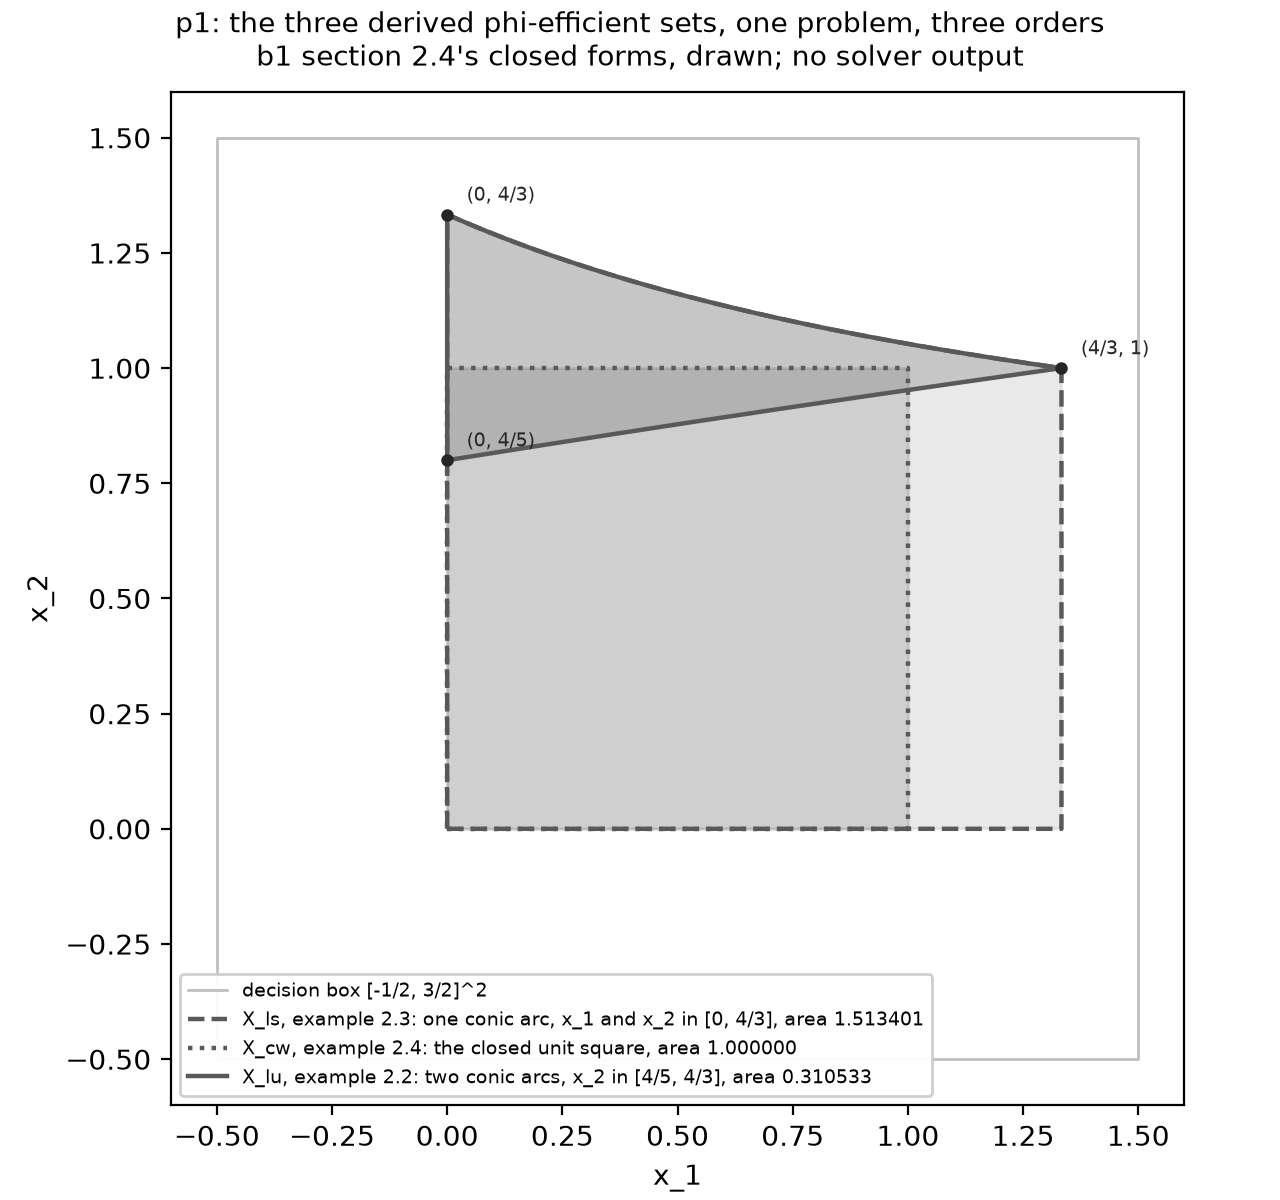
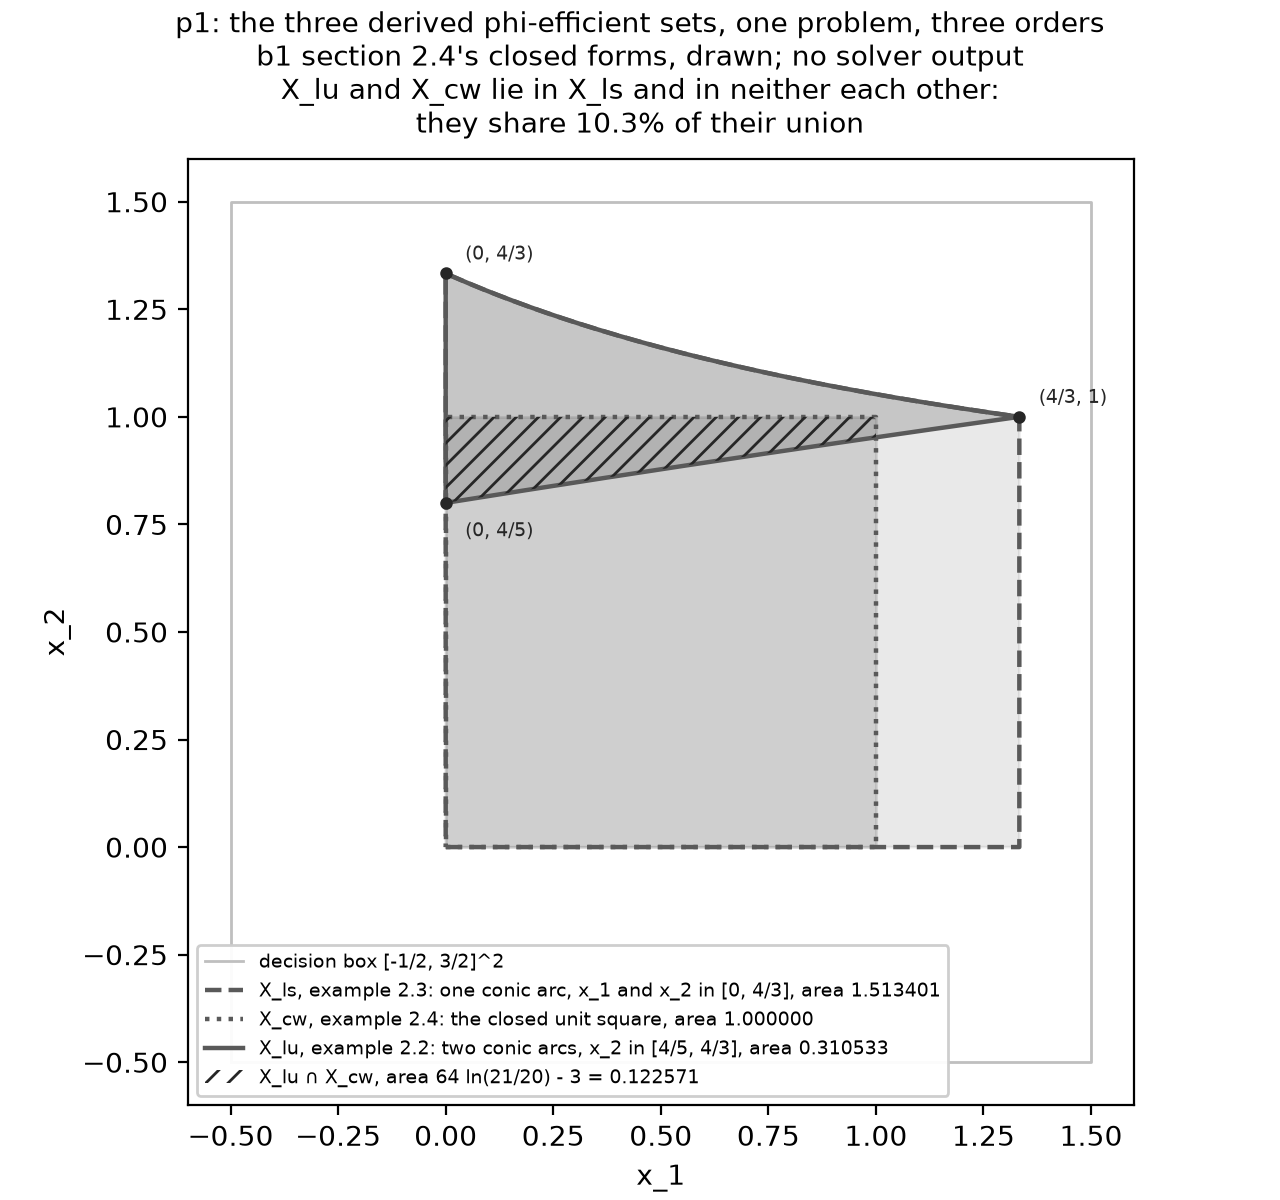
meeting-doc: the overlap of the two non-nested sets, in closed form
the number the document was missing, and it is the one the meeting turns on: how
much of one derived set is the other, for the pair that is nested in neither
direction. checked before it was written, and it holds.

the intersection has a closed form. X_lu is 0 <= x_1 <= min(U, V) with U and V
b1 section 2.4's two conic arcs, U <= V on [4/5, 1] and V <= U on [1, 4/3];
intersecting with X_cw = [0, 1]^2 keeps x_2 in [4/5, 1], where U binds, and caps
x_1 at 1, which binds above x_2 = 20/21. with 20(4 - x_2) - 64 ln(4 - x_2) an
antiderivative of U,

    |X_lu n X_cw| = 64 ln(21/20) - 3 = 0.1225705068...

three routes agree: the antiderivative by hand, adaptive quadrature to 3.0e-15,
and an 8000 x 8000 grid of the box at 0.122571. the same grid returns the areas
0.310533, 1.513317 and 1.000000 against b1's closed forms 0.310533, 1.513401 and
1.000000, and zero cells lying in X_lu or X_cw and not in X_ls, which is the
containment of section 6.1 holding on the regions with no exception.

so 0.394710 of X_lu lies in X_cw, 0.122571 of X_cw lies in X_lu, and the two
share 0.103177 of their union: **changing the order from example 2.2 to example
2.4 on the same problem, 60.5 per cent of what was optimal stops being optimal
and 87.7 per cent of the new optimal set was not optimal before.**

added to section 4.3 with the derivation and both checks, to section 0 as the
headline, to section 6.1 where the pair carrying the signal is argued, and to
[…]

diff --git a/docs/meeting_2026_09_04.md b/docs/meeting_2026_09_04.md
@@ -40,7 +40,11 @@ in closed form under all three φ, by instantiating your Theorem 3.3, Example 3.
 and Example 3.9 on that problem and inventing nothing: the stationarity condition
 (15) becomes a diagonal linear system, the solution map w ↦ x(w) is an explicit
 rational function of the weight vector, and eliminating the weights gives three
-explicit regions of the decision plane. Three solvers were built — random search
+explicit regions of the decision plane. **That derivation already answers, for
+p1 and exactly, the question this study exists to ask**: changing the order from
+Example 2.2 to Example 2.4 on the same problem, 60.5% of what was optimal stops
+being optimal and 87.7% of the new optimal set was not optimal before, the two
+sets sharing 10.3% of their union; §4.3. Three solvers were built — random search
 as the *referencia base*, NSGA-II and multiobjective PSO, both from `pymoo` and
 unmodified — and validated against those derived sets over ninety measurements.
 One of the gate's two assertions passes in ninety of ninety: no solver ever
@@ -49,10 +53,11 @@ all of them NSGA-II, and that failure is understood, bounded and reported as a
 finding rather than repaired. The experiments themselves are the
 last three steps.
 
-**What has not been done.** No experiment has been run. There is no result about
-φ yet, and there cannot be one until the tier 0 and tier 1 runs and their
-synthesis are complete. Nothing has been measured on the benchmarks ZDT1 and
-DTLZ2 beyond six diagnostic configurations. The portfolio application, which is
+**What has not been done.** No experiment has been run, so there is no
+*experimental* result about φ: the sentence above is analytic, it holds for one
+two-variable problem, and whether that magnitude survives at thirty and twelve
+variables is exactly what the benchmark runs are for. Nothing has been measured
+on ZDT1 and DTLZ2 beyond six diagnostic configurations. The portfolio application, which is
 where "which φ gives better results" becomes a well-posed question, has not been
 started. And the derivation of the efficient sets exists for p1 only: p0 turned
 out not to serve as a fixture, and for the benchmarks no closed form exists.
@@ -738,6 +743,58 @@ c + r, c, c − r and r in their own width variable, at 1/(1+ρ), 1, 1/(1−ρ) 
 with ρ = 1/4. The derivation puts them where an independent grid search had
 already found them.
 
+**How much the order changes the answer, in closed form.** The areas say the
+three sets are of different sizes; what the study is about is how much of one is
+the other, and for **the pair that is nested in neither direction** — Example 2.2
+against Example 2.4 — that is available exactly. X_LU is the set of (x_1, x_2)
+with 0 ⩽ x_1 ⩽ min(U(x_2), V(x_2)), where U(x_2) = (20x_2 − 16)/(4 − x_2) and
+V(x_2) = (16 − 12x_2)/(7x_2 − 4) are the two conic arcs, with U ⩽ V on [4/5, 1]
+and V ⩽ U on [1, 4/3]. Intersecting with X_CW = [0, 1]² keeps x_2 ∈ [4/5, 1],
+where the binding arc is U, and caps x_1 at 1, which binds for x_2 ⩾ 20/21 since
+U(x_2) ⩽ 1 ⟺ x_2 ⩽ 20/21. Since 20(4 − x_2) − 64 ln(4 − x_2) is an antiderivative
+of U,
+
+```
+|X_LU ∩ X_CW| = ∫_{4/5}^{20/21} U(x_2) dx_2 + (1 − 20/21)
+              = 64 ln(21/20) − 3
+              = 0.1225705068…
+```
+
+Checked against adaptive quadrature, which agrees to 3.0e−15, and against a count
+of an 8000 × 8000 grid of the decision box, which gives 0.122571.
+
+| pair | share of the first lying in the second | share of the second lying in the first | shared fraction of the union |
+| --- | --- | --- | --- |
+| **Ex. 2.2 against Ex. 2.4** | **0.394710** | **0.122571** | **0.103177** |
+| Ex. 2.2 against Ex. 2.3 | 1 *(by the containment)* | 0.205189 | 0.205189 |
+| Ex. 2.4 against Ex. 2.3 | 1 *(by the containment)* | 0.660763 | 0.660763 |
+
+Read on the top row, which is the only one free in both directions: **changing
+the order from Example 2.2 to Example 2.4 on the same problem, 60.5% of what was
+optimal stops being optimal and 87.7% of the new optimal set was not optimal
+before. The two sets share 10.3% of their union.** That is the sentence this
+study exists to make, and for p1 it is exact rather than measured.
+
+Four things bound it, and none of them is a caveat about the arithmetic.
+
+*It is a statement about area*, Lebesgue measure in the decision plane, and not a
+count of points. The sets are two-dimensional, §3.3, so measure is the natural
+size; a count would be a property of whatever sampled them.
+
+*It is about the derived sets and not about anything a solver returned.* It is
+what an exact solver under each order would deliver. What the experiments add is
+the same quantity computed on **recovered** sets, with variance across seeds,
+which is the number the memoria reports and which no derivation supplies.
+
+*It measures change and does not rank.* Neither set is better; they are different
+answers to the same problem under two different orders, and which order a decision
+maker wants is settled by the coefficients they choose, §2.1, not by this number.
+
+*The two lower rows are a different kind of statement.* One direction there is 1
+before any arithmetic, by the containment of §6.1, so those rows are a check on
+that containment and the top row is the finding. This is the same instruction the
+experimental tables carry.
+
 **Interiority.** X_LU ⊆ [0, 4/3] × [4/5, 4/3] and X_LS, X_CW ⊆ [0, 4/3]². The
 box is [−1/2, 3/2]² and 4/3 < 3/2, so every point of all three derived sets is
 strictly interior with a margin of at least 1/6 on every side, and Example 3.9
@@ -1173,7 +1230,9 @@ as evidence that the efficient set is sensitive to the order. **The comparison
 that carries the sensitivity signal is Example 2.2 against Example 2.4**, which
 are nested in neither direction, and the study's headline number will come from
 that pair, measured on random search output so that the search is identical by
-construction. The other two pairs are reported as checks with the containment
+construction. On p1 that pair already has an exact answer, §4.3: the two derived
+sets share 10.3% of their union, and moving between the two orders costs 60.5% of
+the optimal set and gains 87.7% of a new one. The other two pairs are reported as checks with the containment
 named.
 
 **Relation to your Proposition 5.1.** The φ_LU case is the interval-space
@@ -1614,14 +1673,15 @@ which is stated in place.
 | P2 | The centre–radius reading of φ is φ composed with M = [[1, −1], [1, 1]], with composite determinant 2 det φ, so it is the same automorphism in other coordinates and is singular exactly when R2 fails | §7.4 above; checked entry by entry in exact rational arithmetic on 2000 random coefficient pairs |
 | P3 | p1's stationarity system is diagonal, and x(w) is the explicit rational map of §4.2 | §4.2; verified exactly on 3000 random integer weights per φ, gradient identically zero |
 | P4 | The three closed-form regions X_LU, X_LS, X_CW of §4.3, with their areas | §4.3; verified in exact rational arithmetic in both directions, 12 341 weight vectors forward and 301 region points backward |
-| P5 | Every x(w) at a non-singular w is an **optimal** solution, by Example 3.8 statement 3 (uniqueness of a strictly convex minimiser) | §4.4 |
-| P6 | X_φ ⊆ optimal ⊆ weak optimal ⊆ X_φ ∪ (the singular lines), by Example 3.9 statement 1; and under φ_LU the sandwich collapses to equality among interior points | §4.4 |
-| P7 | The singular weight set is exactly two rays under φ_LS and φ_CW and empty under φ_LU, and the system is consistent on them, never inconsistent | §4.5 |
-| P8 | p0's optimal, weak optimal and strong/strict optimal sets under each φ, from Definition 3.1 applied directly | §4.7; confirmed on an exactly antisymmetric 4001-point grid |
-| P9 | The containment criterion, and its two corollaries ND_LU ⊆ ND_LS and ND_CW ⊆ ND_LS | §6.1. **Recorded, not used**: pending Q6, no result is claimed from it and no derivation is shortened with it |
-| P10 | The exact linear relations g_LU = A g_CW, g_LS = B g_CW, with cond(A) = 1 and cond(B) = (1+√5)²/4, and A, B carrying no problem parameter | §6.2; verified to 0.000e+00 on 500 random points and three region samples |
-| P11 | The protected extreme and its corollary: the strict minimiser of a width column is dominated by nothing, under φ_LS and φ_CW | §5.5 |
-| P12 | The reverse recovery direction is bounded by **one** fill distance and never by a sum, and for subsets of R the two-sided bound is a maximum | §7.5; the bound attained 300 of 300 in both directions on random subset pairs |
+| P5 | area(X_LU ∩ X_CW) = 64 ln(21/20) − 3 = 0.1225705…, and hence that the two sets share 0.103177 of their union, that 0.394710 of X_LU lies in X_CW and 0.122571 of X_CW lies in X_LU | §4.3, by integrating the binding conic arc between x_2 = 4/5 and x_2 = 1 with the cap at x_1 = 1 binding above x_2 = 20/21. A Lebesgue-measure statement about the derived regions, not about any recovered set |
+| P6 | Every x(w) at a non-singular w is an **optimal** solution, by Example 3.8 statement 3 (uniqueness of a strictly convex minimiser) | §4.4 |
+| P7 | X_φ ⊆ optimal ⊆ weak optimal ⊆ X_φ ∪ (the singular lines), by Example 3.9 statement 1; and under φ_LU the sandwich collapses to equality among interior points | §4.4 |
+| P8 | The singular weight set is exactly two rays under φ_LS and φ_CW and empty under φ_LU, and the system is consistent on them, never inconsistent | §4.5 |
+| P9 | p0's optimal, weak optimal and strong/strict optimal sets under each φ, from Definition 3.1 applied directly | §4.7; confirmed on an exactly antisymmetric 4001-point grid |
+| P10 | The containment criterion, and its two corollaries ND_LU ⊆ ND_LS and ND_CW ⊆ ND_LS | §6.1. **Recorded, not used**: pending Q6, no result is claimed from it and no derivation is shortened with it |
+| P11 | The exact linear relations g_LU = A g_CW, g_LS = B g_CW, with cond(A) = 1 and cond(B) = (1+√5)²/4, and A, B carrying no problem parameter | §6.2; verified to 0.000e+00 on 500 random points and three region samples |
+| P12 | The protected extreme and its corollary: the strict minimiser of a width column is dominated by nothing, under φ_LS and φ_CW | §5.5 |
+| P13 | The reverse recovery direction is bounded by **one** fill distance and never by a sum, and for subsets of R the two-sided bound is a maximum | §7.5; the bound attained 300 of 300 in both directions on random subset pairs |
 
 ### Claims established by measurement
 
@@ -1631,7 +1691,7 @@ which is stated in place.
 | M2 | A half-width that is an exact function of the centre does the same, even when the width is far from constant | Proportional imprecision on ZDT1, width spans 0.84 and 2.19, correlation +1.0000, all four index sets identical; §3.1 |
 | M3 | Multiplicative coefficient imprecision makes the half-width an exact linear function of the centre for any monomial objective | ZDT1 with f_1 = c_1x_1, correlation +1.0000, φ_CW returning the crisp set exactly at d = 0.10 and 0.25; §3.2 |
 | M4 | The uniform-sample independence check is not sufficient: it passes on ZDT1 with r = εx_n, where φ_CW reproduces the crisp set on the slice | 81 × 81 slice grid at ε = 0.25, fractions 0.0123 / 1.0000 / 1.0000 / 0.0123; §3.4 |
-| M5 | Endpoint subtraction gives a width error of exactly ε_mach·|c| and shatters a column's exact ties, 46 distinct values into 210 | Magnitude sweep 0, 10³, 10⁶, 10⁹ against an exact integer reference; §7.4 |
+| M5 | Endpoint subtraction gives a width error of exactly ε_mach times the magnitude of the centre, and shatters a column's exact ties, 46 distinct values into 210 | Magnitude sweep 0, 10³, 10⁶, 10⁹ against an exact integer reference; §7.4 |
 | M6 | δ enters every image coordinate as an additive constant, so no gradient, Hessian or efficient set moves with it | Exact integer arithmetic over the whole box; identical **index sets** at δ = 1/10 and 1/8 |
 | M7 | The fill-distance distribution the gate's tolerance is a quantile of | 1000 uniform k-point draws of each region at k = 100 and 200; §5.2 |
 | M8 | The gate's ninety measurements: twelve reverse failures, all NSGA-II, by 0.005 to 0.039; zero dominations of the reference in all ninety | §5.3 |
@@ -1647,6 +1707,7 @@ which is stated in place.
 | M18 | `pymoo`'s HV clips at the reference point rather than refusing, and its IGD averages over the reference and not over the front | Hand-computed cases: rows (0,1) and (3,0.5) against (2,2) give 2.0; 0.0 against 7.0710678118654755 on the transposed call |
 | M19 | The φ_LU ⊆ φ_LS containment fails by rounding in double precision, one point of 1565 on DTLZ2 at ε = 0.50, and 0 of 90 times on tier 0 | Exact rational recomputation of every affected point; the cause is a single rounded subtraction c − r at a face where the centre is 6.1e−17 |
 | M20 | The derived sets reproduce an independent grid search, and the residue is the finite grid | 0 of 20 000 derived points dominated; a 24-fold local refinement drops 153 of 171 and 76 of 87 excess points and 0 of 2668 in-region points; §4.3 |
+| M21 | P5's closed form is right, and the containments of §6.1 hold on the derived regions with no exception | Adaptive quadrature agrees with 64 ln(21/20) − 3 to 3.0e−15; an 8000 × 8000 grid of the box gives areas 0.310533, 1.513317 and 1.000000 against the closed forms 0.310533, 1.513401 and 1.000000, an intersection of 0.122571, and zero grid cells lying in X_LU or X_CW but not in X_LS |
 
 ### Working assumptions
 
@@ -1758,13 +1819,19 @@ effect of φ was measured where it is measurable.
 
 ### 10.3 What the experiments will and will not settle
 
-**For p1 the answer is already known analytically.** Section 4 gives the three
-efficient sets in closed form, so the experiments there cannot discover what the
-sets are. What they measure is two things the derivation cannot supply: the
-**magnitude** of the difference between them in the decision space, in the
-units — Hausdorff distance, δ-coverage, overlap, cross-evaluation — that the
-memoria will report, and **how well each solver recovers a known answer** under
-each order. The second of those is already partly in hand from the gate, §5.
+**For p1 the answer is already known analytically**, including its magnitude:
+§4.3 gives not only the three efficient sets in closed form but the exact overlap
+of the pair that carries the signal, 10.3% of the union. So the experiments there
+cannot discover what the sets are, and they cannot discover how far apart they
+are either. What they add is two things the derivation cannot supply. The same
+quantities computed on **recovered** sets rather than on derived ones — Hausdorff
+distance, δ-coverage in both directions, overlap and cross-evaluation, with
+variance across seeds — which is what the memoria can report about a method
+rather than about a pair of regions, and which is where a difference could turn
+out to be smaller than the seed-to-seed spread. And **how well each solver
+recovers a known answer** under each order, which is already partly in hand from
+the gate, §5. The analytic number of §4.3 is the yardstick those are read
+against, not a substitute for them.
 
 **For the benchmarks there is no closed form and the result is genuinely
 exploratory.** No reference front exists for ZDT1 or DTLZ2 as interval problems,
